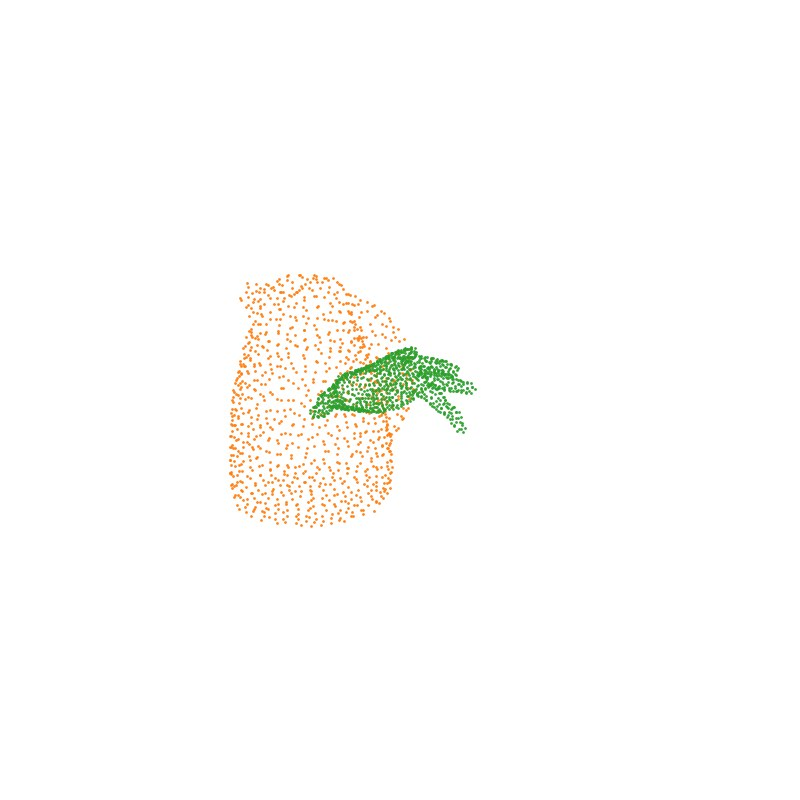
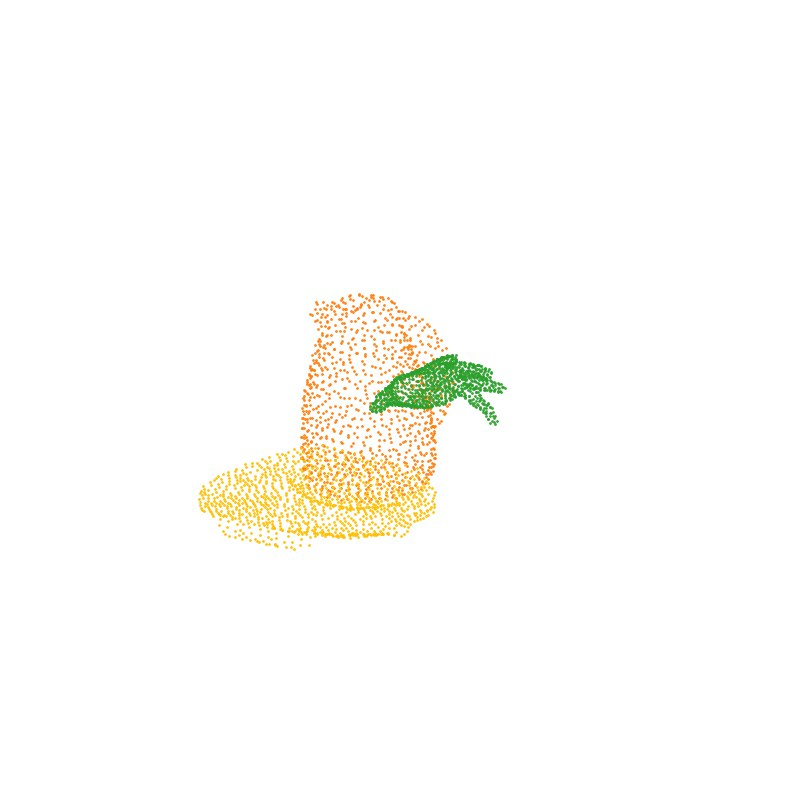
3d-wam deck #2-1: HOI4D clips gain the destination / target object
Second entity extracted from HOI4D's own labelled scene cloud: placement surface
for pick-and-place, named destination for pour and drawer, target for cut.
Distance from the object's closest approach: cut 0.5 cm, pick-and-place 9.8,
pour 15.1, drawer 16.9 (the drawer front; the scan has it shut).

Claude-Session: https://claude.ai/code/session_01SMPxcWL3pAAD5cKRpfQpSb

Changed region(s): [[0.25, 0.3438, 0.625, 0.6875]]

diff --git a/experiments/3d-wam/decks/2026-09-08-s2-1-human-data/index.html b/experiments/3d-wam/decks/2026-09-08-s2-1-human-data/index.html
@@ -363,7 +363,7 @@
 <!-- SECTION: viz grid (outside the cap) · HOI4D one clip per task family -->
 <section class="slide s-viz">
   <h2>Data (7/8): HOI4D &mdash; one clip per task</h2>
-  <p class="thesis ctx">The five task families HOI4D actually contains</p>
+  <p class="thesis ctx">Five task families, now with the destination or target object</p>
   <div class="vizgrid">
     <figure><img src="assets/hoi4d__hoi4d_ZY20210800001_H1_C12_N27_S165_s01_T1__human.gif" alt="HOI4D · pick and place the kettle" loading="lazy" style="background:url(assets/hoi4d__hoi4d_ZY20210800001_H1_C12_N27_S165_s01_T1__human.jpg) center/contain no-repeat"><figcaption>pick and place &middot; pick and place the kettle</figcaption></figure>
     <figure><img src="assets/hoi4d__hoi4d_ZY20210800001_H1_C7_N16_S59_s02_T2__human.gif" alt="HOI4D · put the bowl in the drawer" loading="lazy" style="background:url(assets/hoi4d__hoi4d_ZY20210800001_H1_C7_N16_S59_s02_T2__human.jpg) center/contain no-repeat"><figcaption>put in drawer &middot; put the bowl in the drawer</figcaption></figure>
@@ -371,7 +371,7 @@
     <figure><img src="assets/hoi4d__hoi4d_ZY20210800001_H1_C14_N17_S158_s02_T1__human.gif" alt="HOI4D · open and close the trash can" loading="lazy" style="background:url(assets/hoi4d__hoi4d_ZY20210800001_H1_C14_N17_S158_s02_T1__human.jpg) center/contain no-repeat"><figcaption>open and close &middot; open and close the trash can</figcaption></figure>
     <figure><img src="assets/hoi4d__hoi4d_ZY20210800001_H1_C13_N12_S179_s03_T4__human.gif" alt="HOI4D · cut apple with the knife" loading="lazy" style="background:url(assets/hoi4d__hoi4d_ZY20210800001_H1_C13_N12_S179_s03_T4__human.jpg) center/contain no-repeat"><figcaption>cut &middot; cut apple with the knife</figcaption></figure>
   </div>
-  <p class="footnote">7.5 Hz, exact stride 2 &middot; gravity z-up, no table plane (free workspace) &middot; 50 frames = 6.7 s</p>
+  <p class="footnote">7.5 Hz, exact stride 2, lightly smoothed &middot; gravity z-up, no table plane (free workspace) &middot; second entity from HOI4D&rsquo;s labelled scene cloud: placement surface for pick-and-place, the named destination for pour and drawer, the target for cut; open-and-close needs none &middot; 50 frames = 6.7 s</p>
 </section>
 
 <!-- SECTION: viz grid · raw vs smoothed, same window and camera -->
